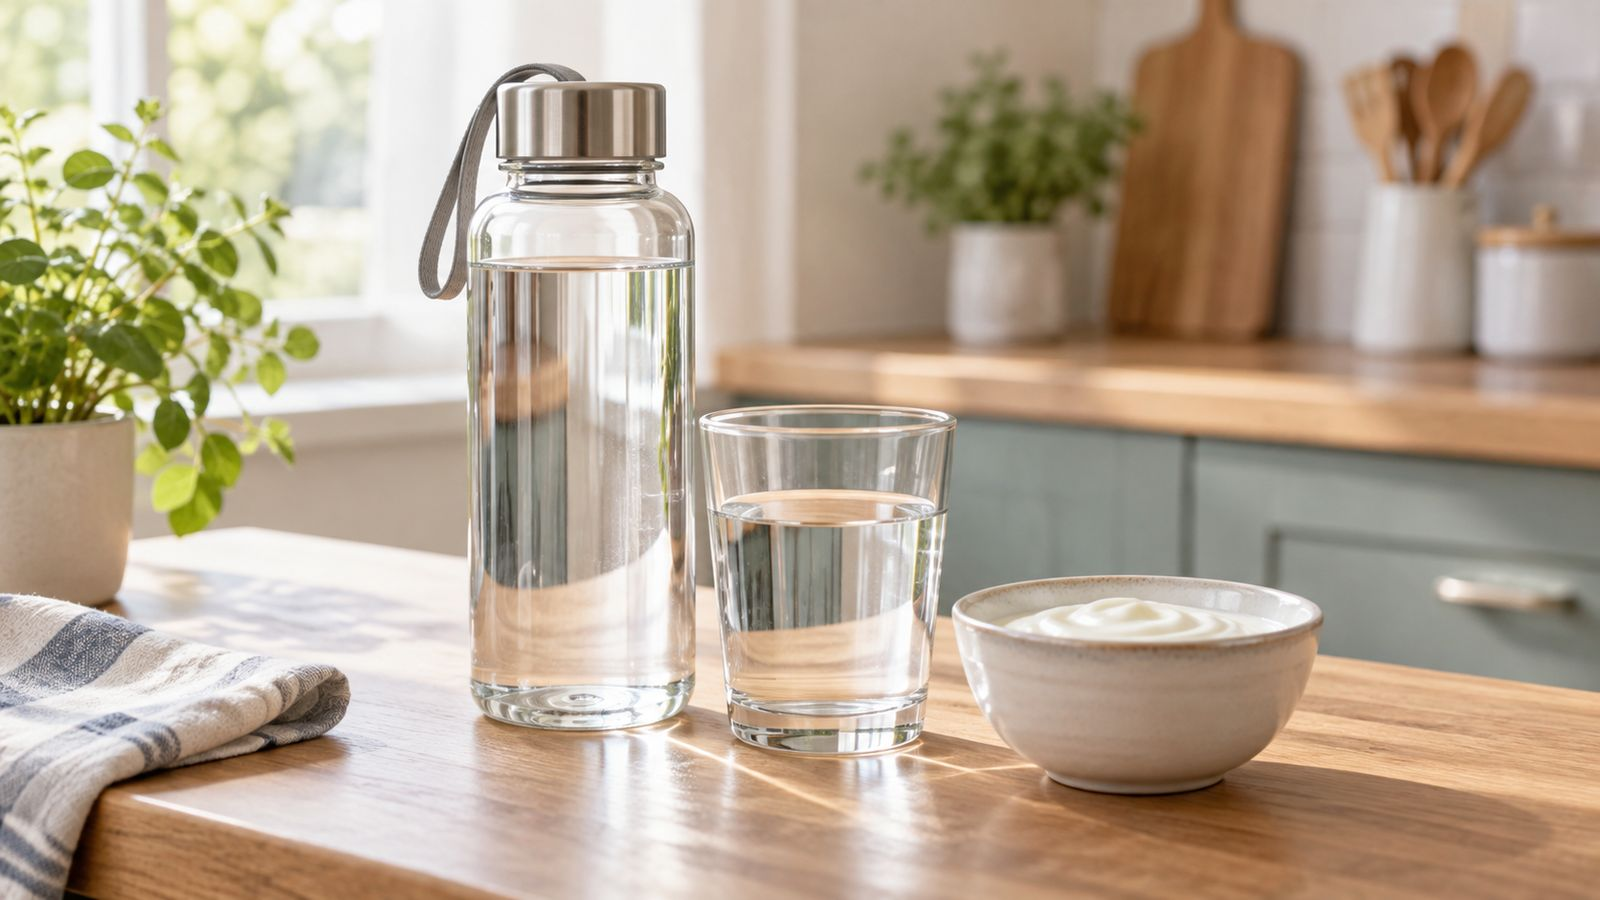
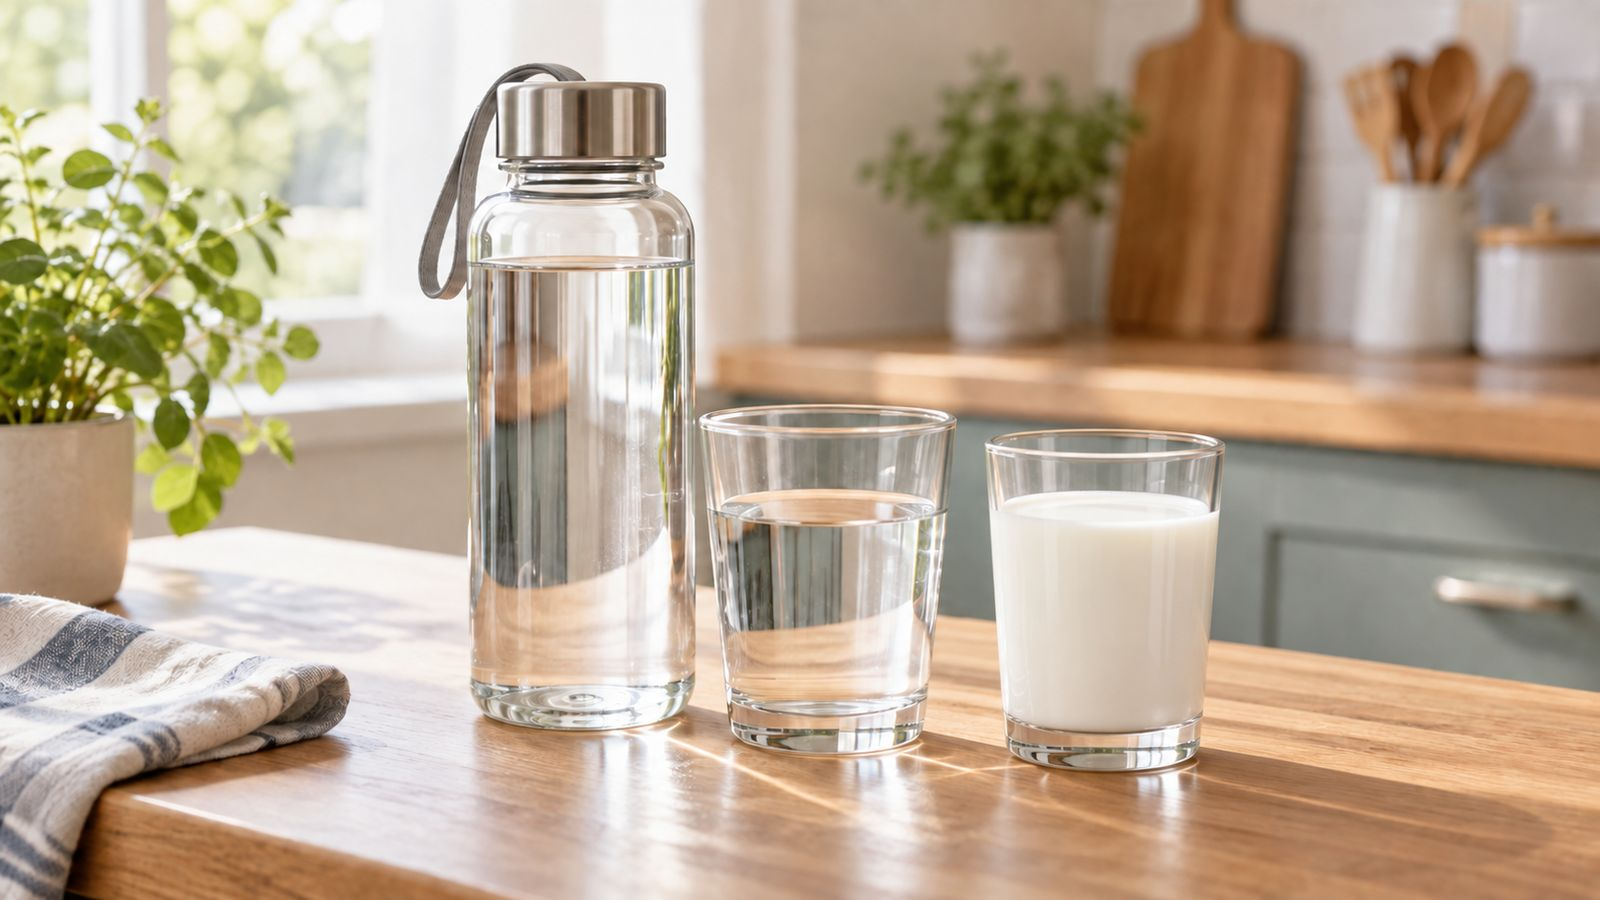
將腎結石封面的優格換成牛奶

diff --git a/sw.js b/sw.js
@@ -9,7 +9,7 @@
      其他來源 一律不碰（Firebase、Google 字型等交給瀏覽器自己處理）
 
    VERSION 由 bump_assets.py 自動更新，改版時舊快取會整批清掉。 */
-const VERSION = "kg-57ee3433bc";
+const VERSION = "kg-2887563305";
 const SHELL = `${VERSION}-shell`, IMG = `${VERSION}-img`;
 
 /* 先抓起來的骨架：三個頁面加標誌。JS 與圖片留給實際瀏覽時自然填入，
